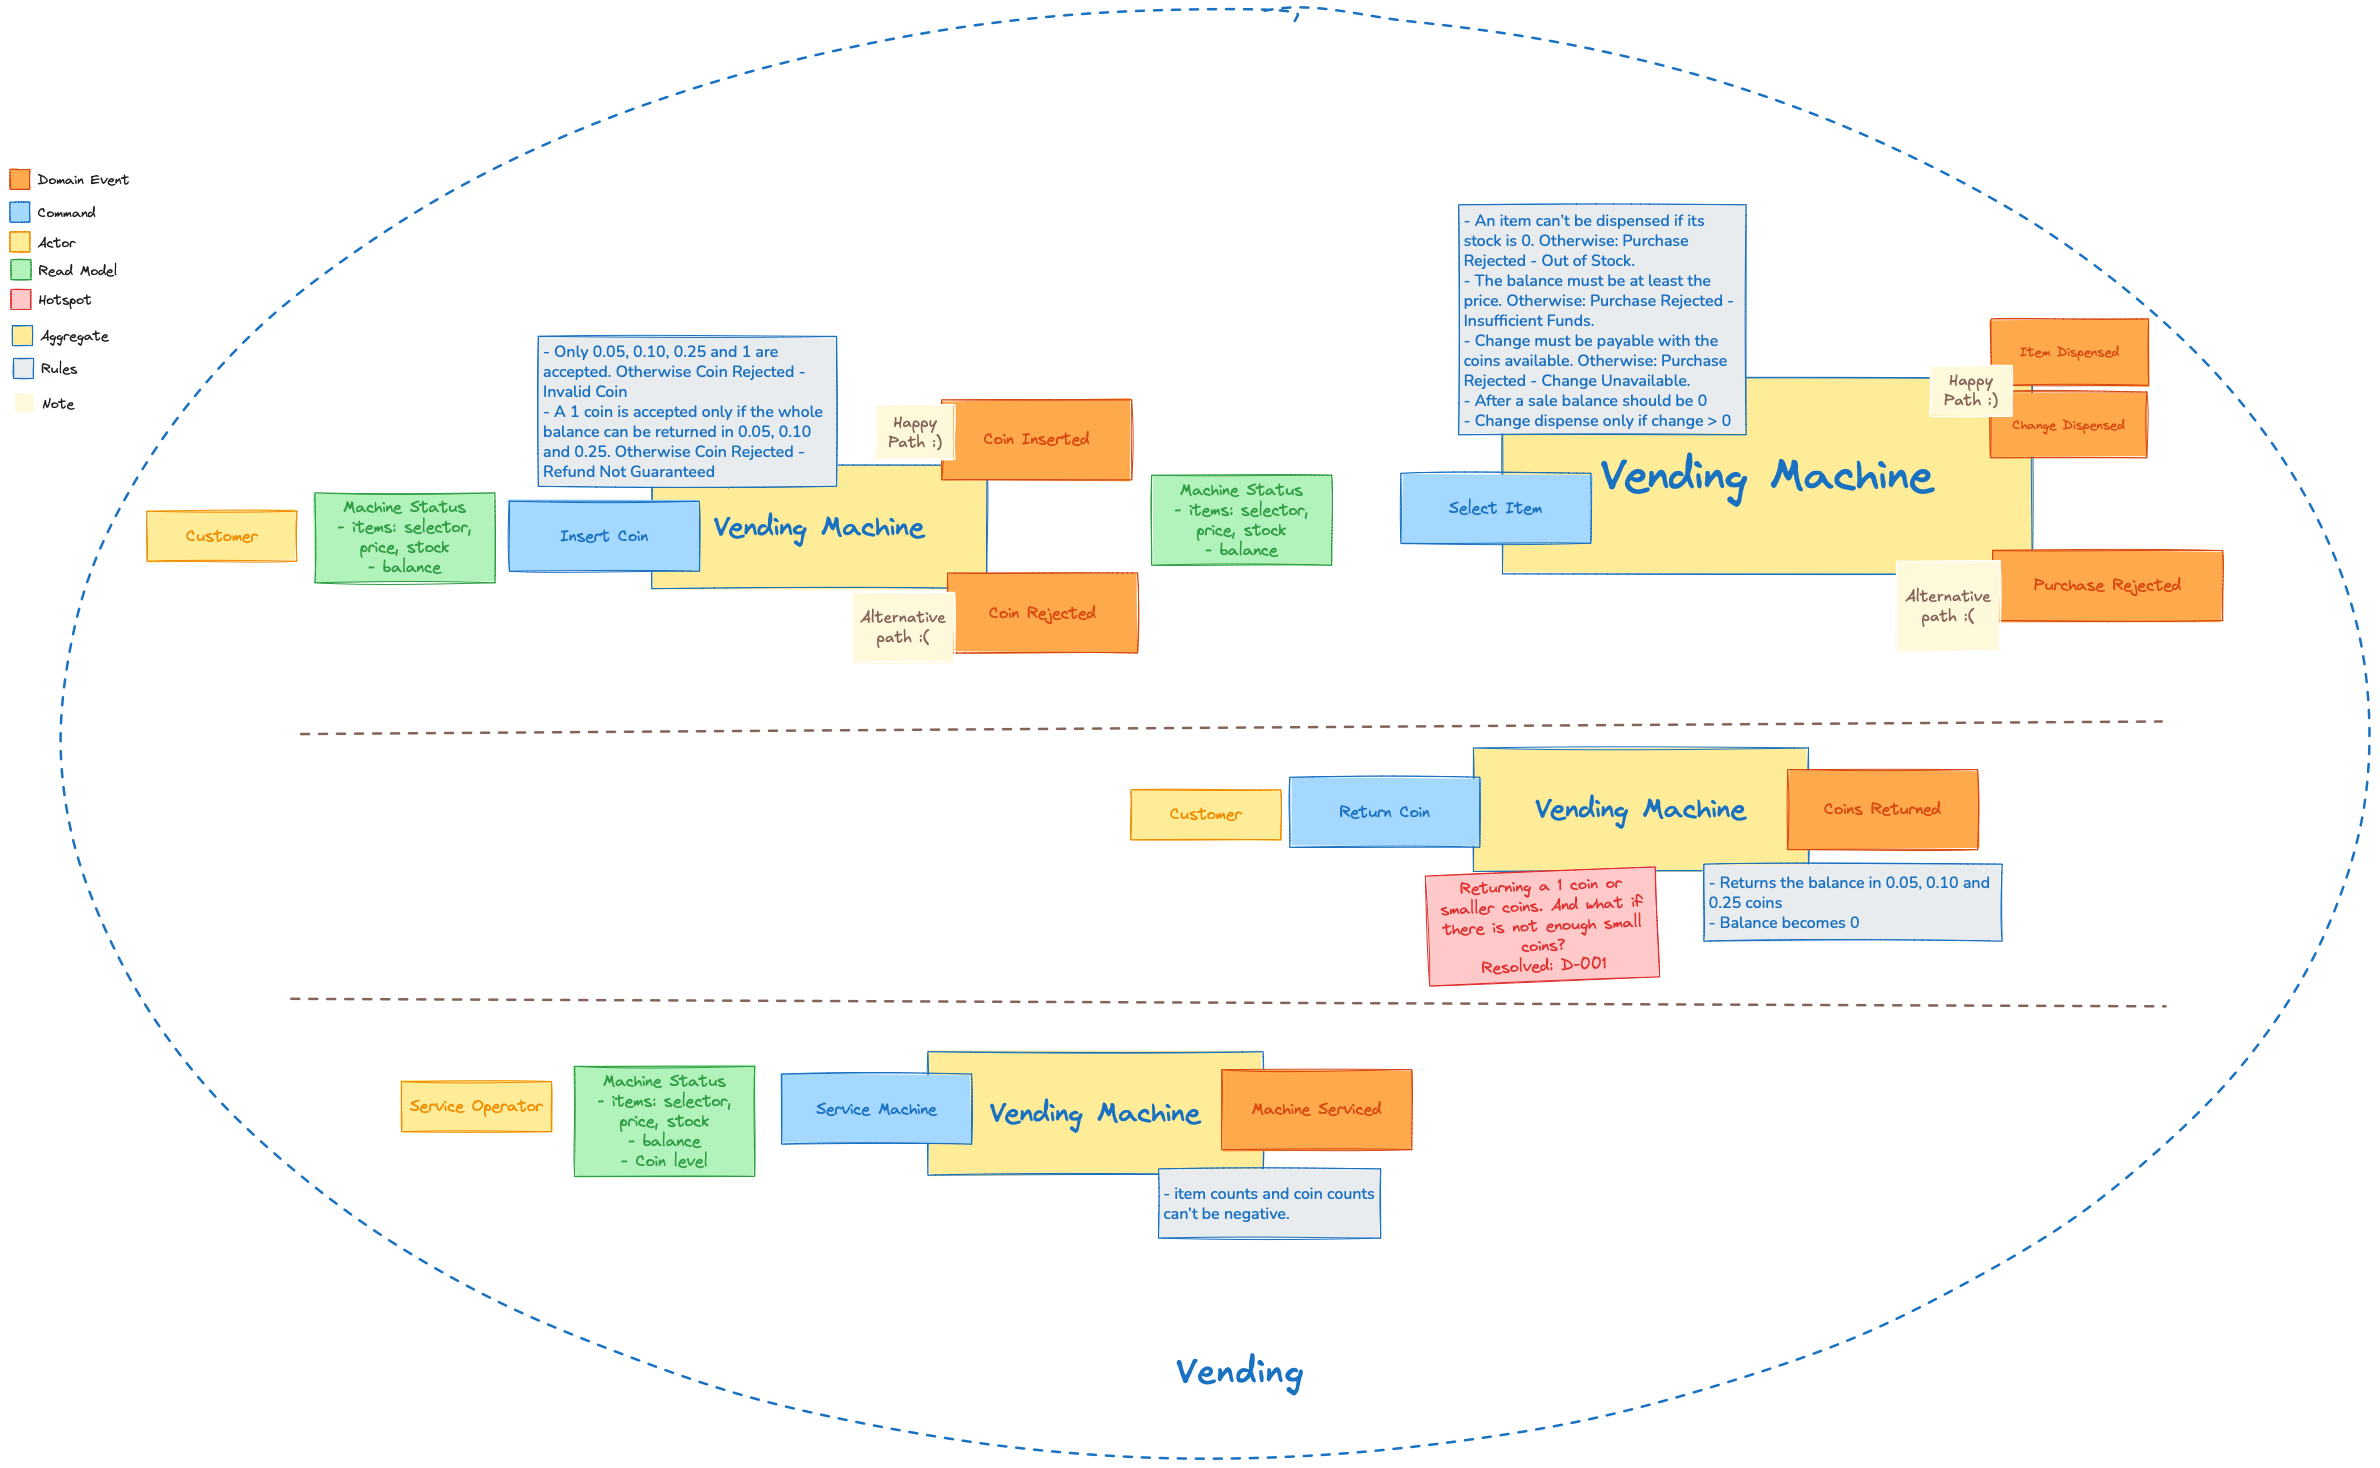
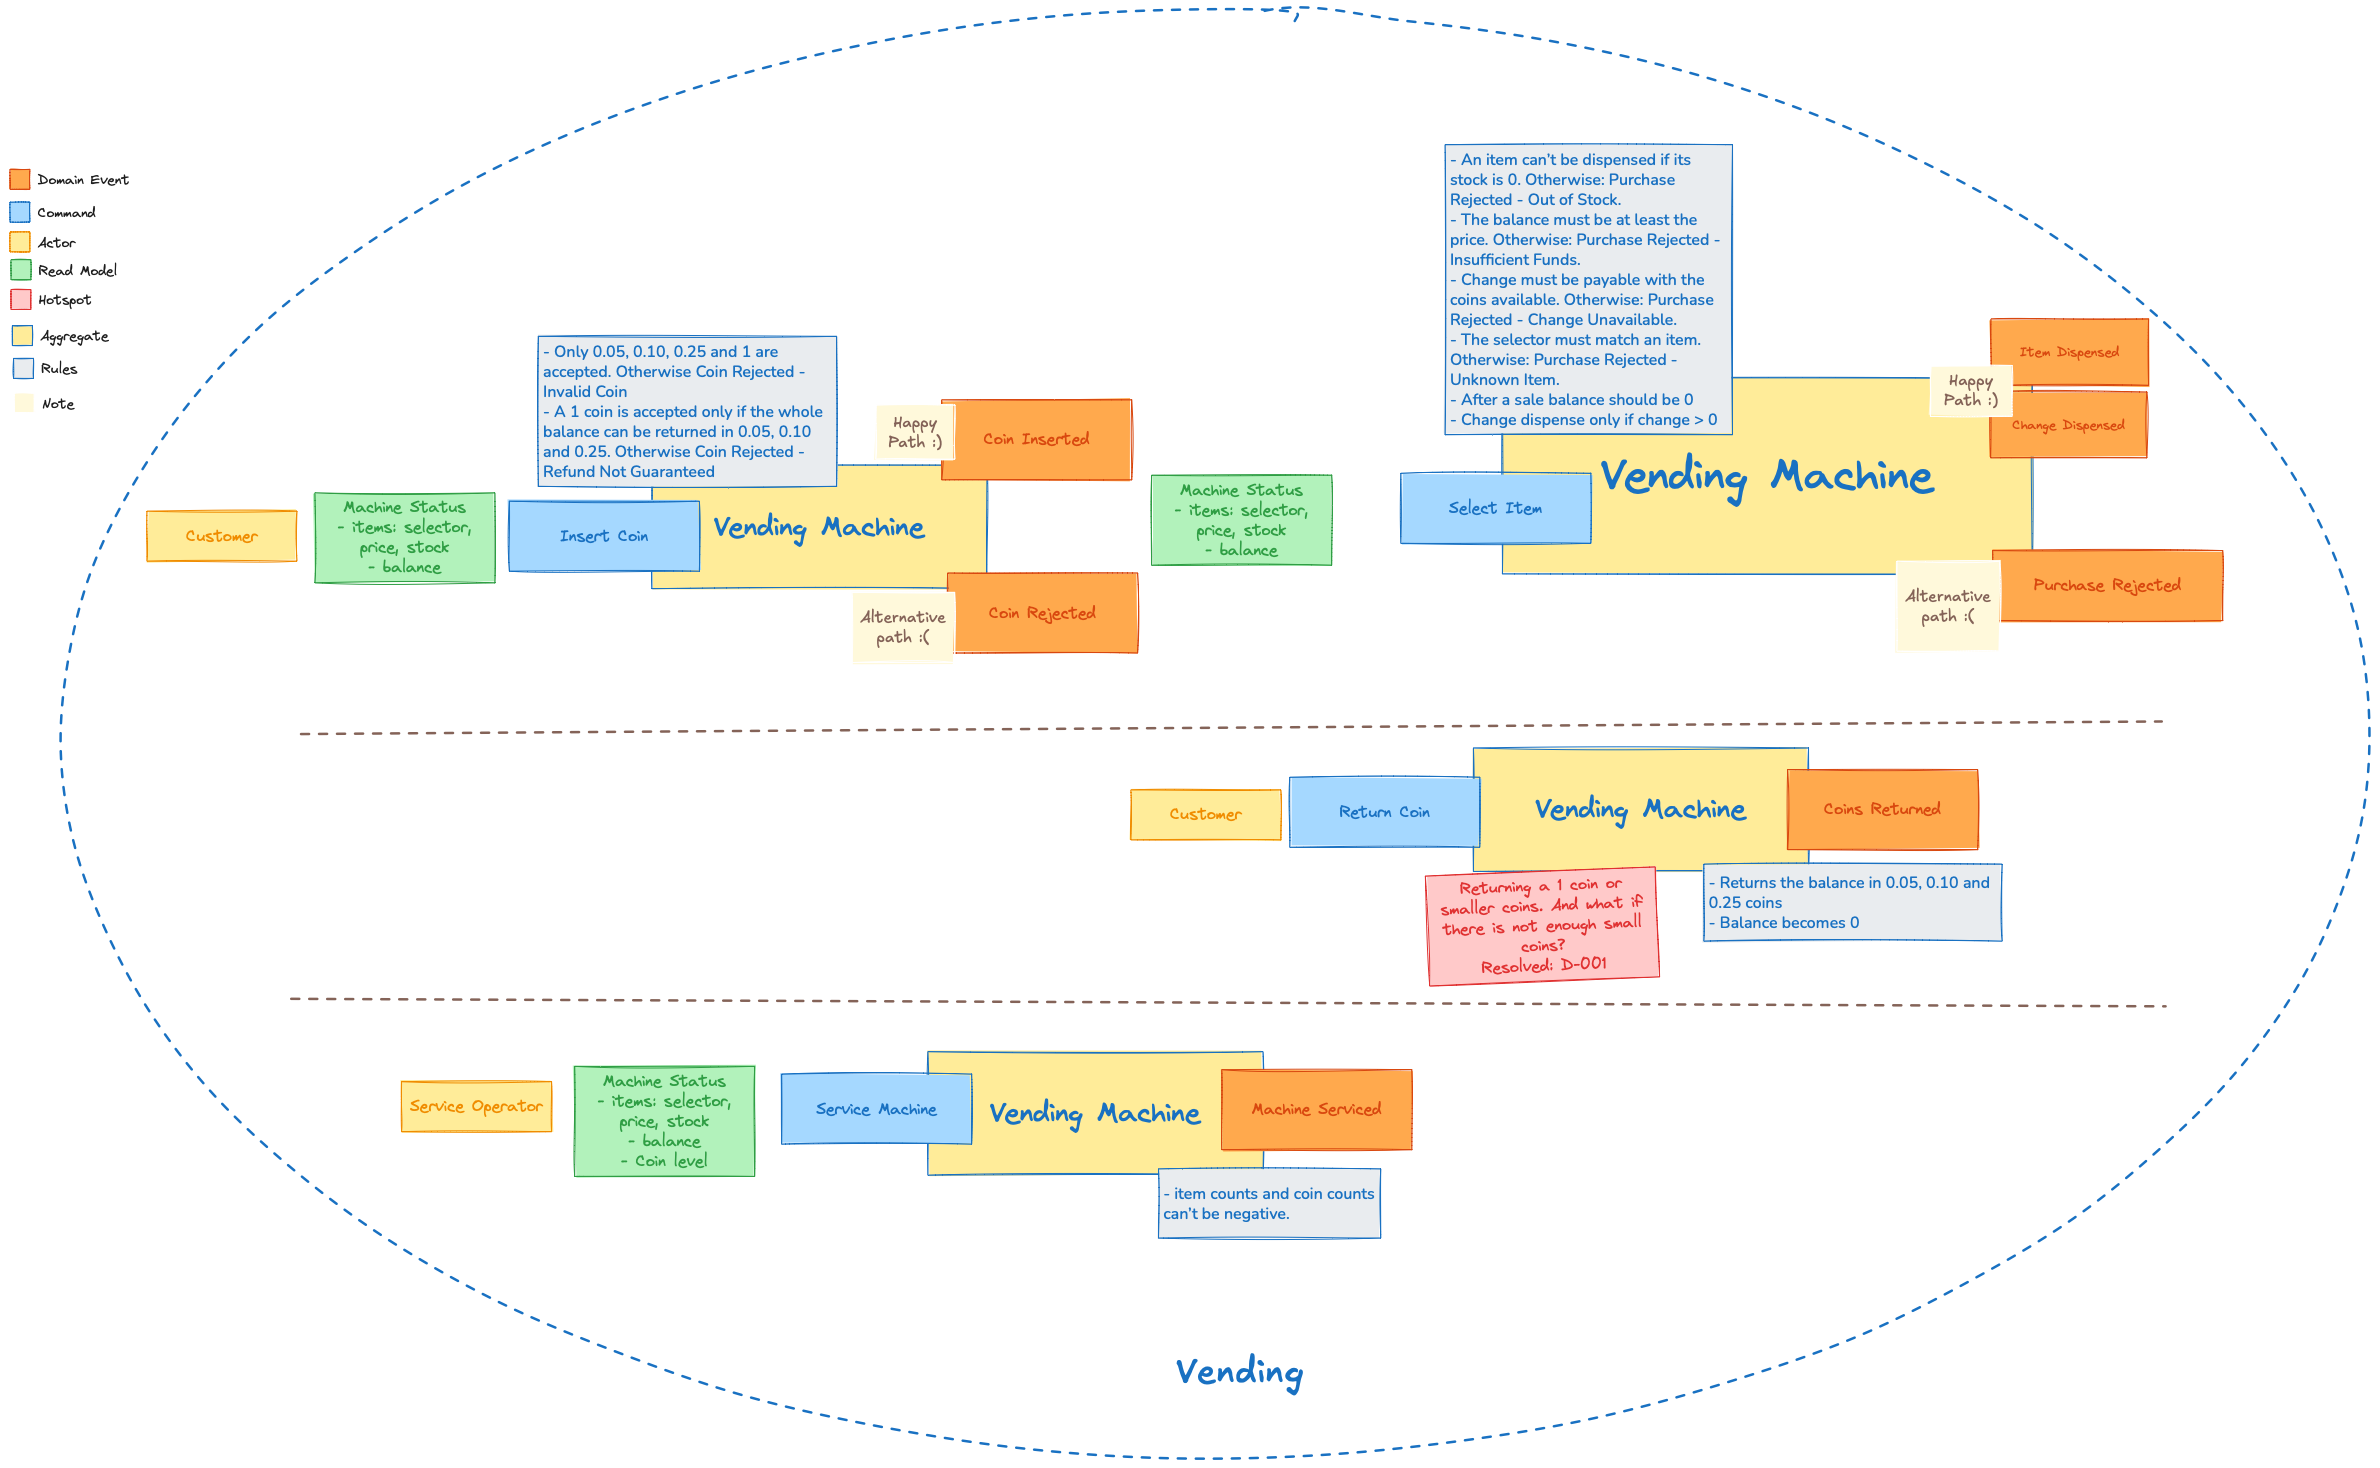
docs: add unknown item rejection

Changed region(s): [[0.5908, 0.092, 0.7462, 0.3065]]

diff --git a/docs/glossary.md b/docs/glossary.md
@@ -26,7 +26,7 @@ Ubiquitous language of the Vending context. Code, tests and docs use these exact
   - Coin Rejected, reason: Invalid Coin or Refund Not Guaranteed (1 coin the machine could not give back, see D-001)
 - **Select Item** (Customer)
   - Item Dispensed, plus Change Dispensed when there is change
-  - Purchase Rejected, reason: Out of Stock, Insufficient Funds or Change Unavailable
+  - Purchase Rejected, reason: Unknown Item, Out of Stock, Insufficient Funds or Change Unavailable
 - **Return Coin** (Customer)
   - Coins Returned
 - **Service Machine** (Service Operator)
